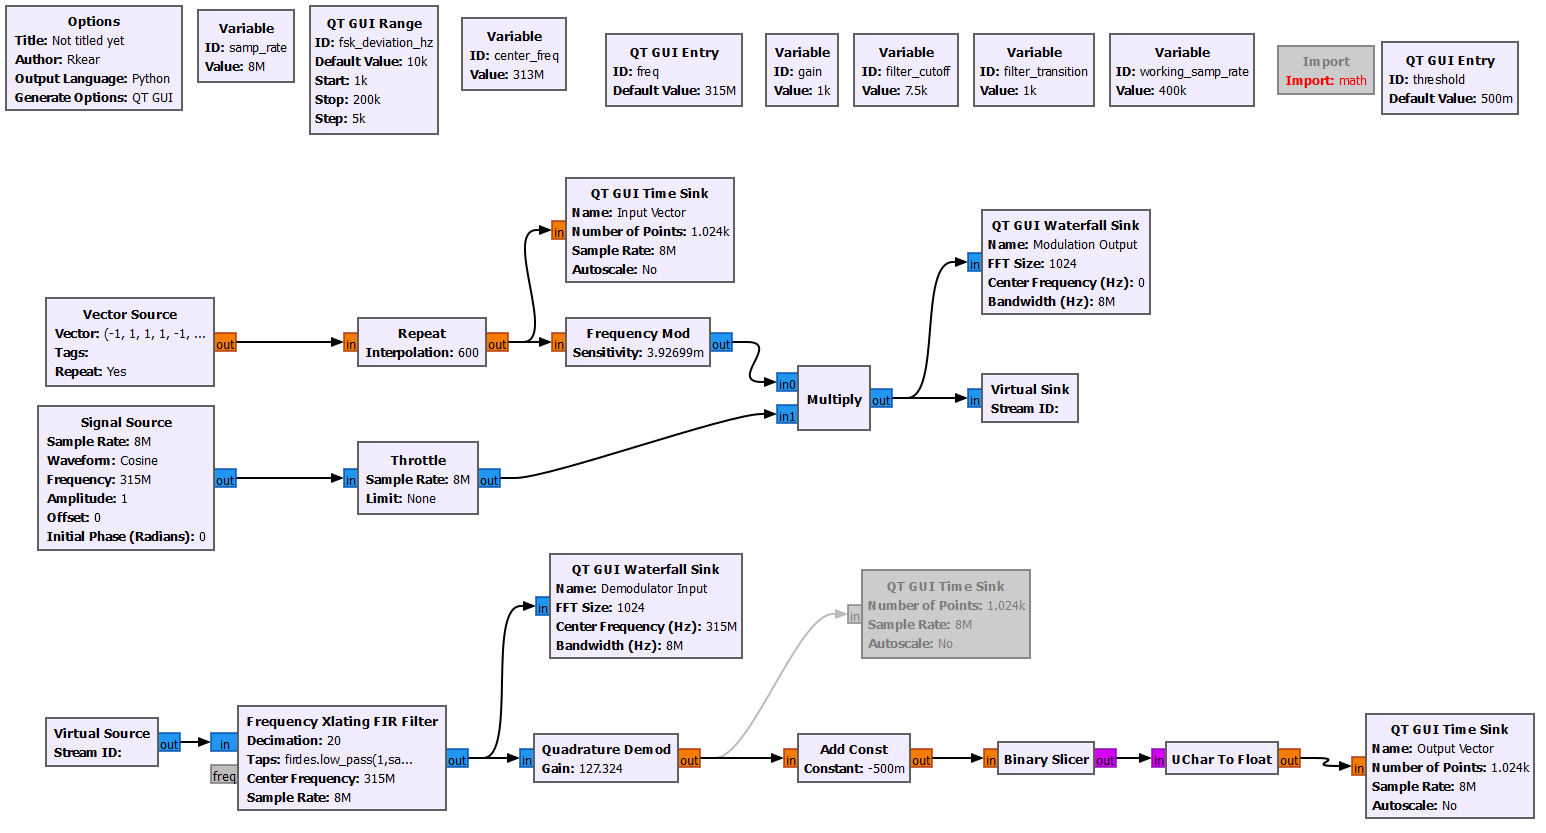
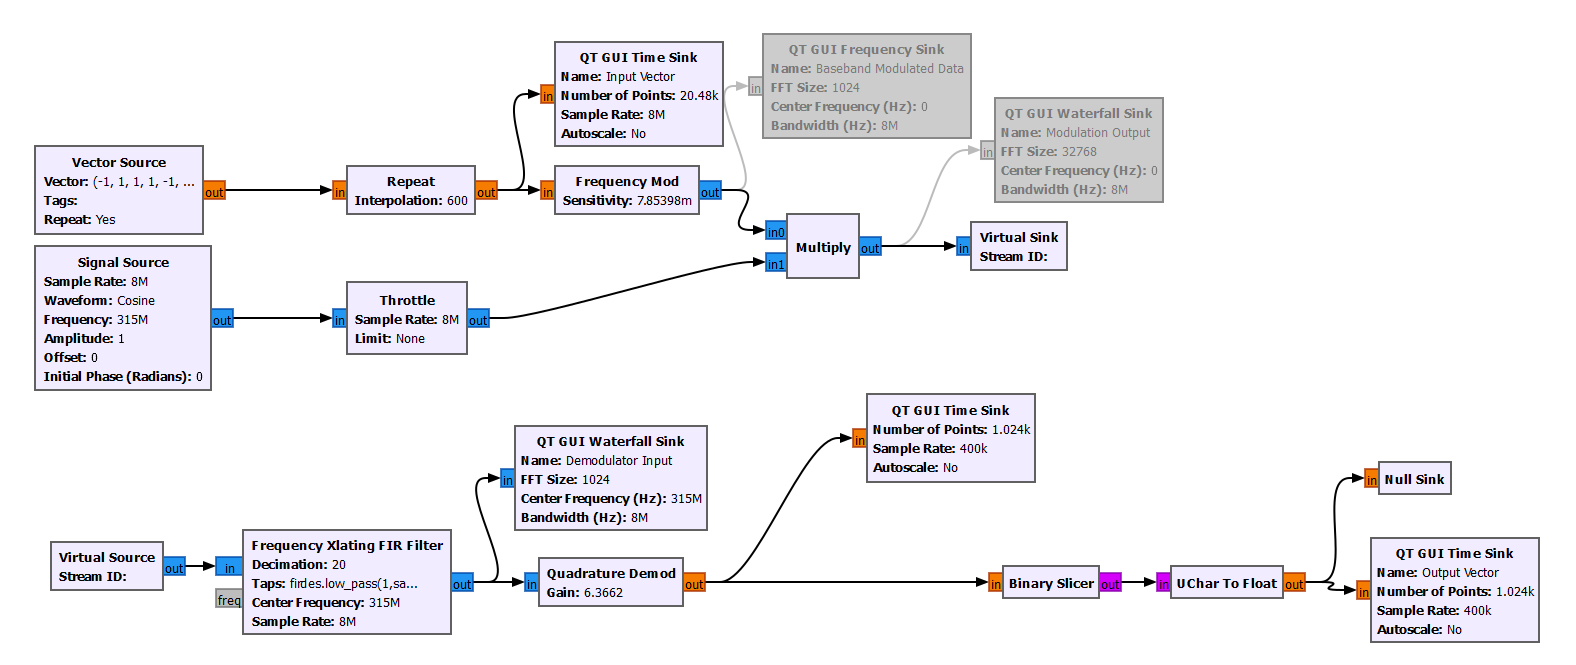
Demod

diff --git a/Lab3_FSK.py b/Lab3_FSK.py
@@ -99,18 +99,18 @@ class Lab3_FSK(gr.top_block, Qt.QWidget):
         self._threshold_line_edit.returnPressed.connect(
             lambda: self.set_threshold(eng_notation.str_to_num(str(self._threshold_line_edit.text()))))
         self.top_layout.addWidget(self._threshold_tool_bar)
-        self.qtgui_waterfall_sink_x_0 = qtgui.waterfall_sink_c(
-            32768, #size
+        self.qtgui_waterfall_sink_x_0_0 = qtgui.waterfall_sink_c(
+            1024, #size
             window.WIN_BLACKMAN_hARRIS, #wintype
-            0, #fc
+            freq, #fc
             samp_rate, #bw
-            "Modulation Output", #name
+            "Demodulator Input", #name
             1, #number of inputs
             None # parent
         )
-        self.qtgui_waterfall_sink_x_0.set_update_time(0.10)
-        self.qtgui_waterfall_sink_x_0.enable_grid(False)
-        self.qtgui_waterfall_sink_x_0.enable_axis_labels(True)
+        self.qtgui_waterfall_sink_x_0_0.set_update_time(0.10)
+        self.qtgui_waterfall_sink_x_0_0.enable_grid(False)
+        self.qtgui_waterfall_sink_x_0_0.enable_axis_labels(True)
 
 
 
@@ -123,36 +123,36 @@ class Lab3_FSK(gr.top_block, Qt.QWidget):
 
         for i in range(1):
             if len(labels[i]) == 0:
-                self.qtgui_waterfall_sink_x_0.set_line_label(i, "Data {0}".format(i))
+                self.qtgui_waterfall_sink_x_0_0.set_line_label(i, "Data {0}".format(i))
             else:
-                self.qtgui_waterfall_sink_x_0.set_line_label(i, labels[i])
-            self.qtgui_waterfall_sink_x_0.set_color_map(i, colors[i])
-            self.qtgui_waterfall_sink_x_0.set_line_alpha(i, alphas[i])
+                self.qtgui_waterfall_sink_x_0_0.set_line_label(i, labels[i])
+            self.qtgui_waterfall_sink_x_0_0.set_color_map(i, colors[i])
+            self.qtgui_waterfall_sink_x_0_0.set_line_alpha(i, alphas[i])
 
-        self.qtgui_waterfall_sink_x_0.set_intensity_range(-140, 10)
+        self.qtgui_waterfall_sink_x_0_0.set_intensity_range(-140, 10)
 
-        self._qtgui_waterfall_sink_x_0_win = sip.wrapinstance(self.qtgui_waterfall_sink_x_0.qwidget(), Qt.QWidget)
+        self._qtgui_waterfall_sink_x_0_0_win = sip.wrapinstance(self.qtgui_waterfall_sink_x_0_0.qwidget(), Qt.QWidget)
 
-        self.top_layout.addWidget(self._qtgui_waterfall_sink_x_0_win)
-        self.qtgui_time_sink_x_1 = qtgui.time_sink_f(
+        self.top_layout.addWidget(self._qtgui_waterfall_sink_x_0_0_win)
+        self.qtgui_time_sink_x_2 = qtgui.time_sink_f(
             1024, #size
-            samp_rate, #samp_rate
-            "Input Vector", #name
+            samp_rate/20, #samp_rate
+            "Quad Demod Output", #name
             1, #number of inputs
             None # parent
         )
-        self.qtgui_time_sink_x_1.set_update_time(0.10)
-        self.qtgui_time_sink_x_1.set_y_axis(-1, 1)
+        self.qtgui_time_sink_x_2.set_update_time(0.10)
+        self.qtgui_time_sink_x_2.set_y_axis(-7, 7)
 
-        self.qtgui_time_sink_x_1.set_y_label('Amplitude', "")
+        self.qtgui_time_sink_x_2.set_y_label('Amplitude', "")
 
-        self.qtgui_time_sink_x_1.enable_tags(True)
-        self.qtgui_time_sink_x_1.set_trigger_mode(qtgui.TRIG_MODE_FREE, qtgui.TRIG_SLOPE_POS, 0.0, 0, 0, "")
-        self.qtgui_time_sink_x_1.enable_autoscale(False)
-        self.qtgui_time_sink_x_1.enable_grid(False)
-        self.qtgui_time_sink_x_1.enable_axis_labels(True)
-        self.qtgui_time_sink_x_1.enable_control_panel(False)
-        self.qtgui_time_sink_x_1.enable_stem_plot(False)
+        self.qtgui_time_sink_x_2.enable_tags(True)
+        self.qtgui_time_sink_x_2.set_trigger_mode(qtgui.TRIG_MODE_FREE, qtgui.TRIG_SLOPE_POS, 0.0, 0, 0, "")
+        self.qtgui_time_sink_x_2.enable_autoscale(False)
+        self.qtgui_time_sink_x_2.enable_grid(False)
+        self.qtgui_time_sink_x_2.enable_axis_labels(True)
+        self.qtgui_time_sink_x_2.enable_control_panel(False)
+        self.qtgui_time_sink_x_2.enable_stem_plot(False)
 
 
         labels = ['Signal 1', 'Signal 2', 'Signal 3', 'Signal 4', 'Signal 5',
@@ -171,59 +171,65 @@ class Lab3_FSK(gr.top_block, Qt.QWidget):
 
         for i in range(1):
             if len(labels[i]) == 0:
-                self.qtgui_time_sink_x_1.set_line_label(i, "Data {0}".format(i))
+                self.qtgui_time_sink_x_2.set_line_label(i, "Data {0}".format(i))
             else:
-                self.qtgui_time_sink_x_1.set_line_label(i, labels[i])
-            self.qtgui_time_sink_x_1.set_line_width(i, widths[i])
-            self.qtgui_time_sink_x_1.set_line_color(i, colors[i])
-            self.qtgui_time_sink_x_1.set_line_style(i, styles[i])
-            self.qtgui_time_sink_x_1.set_line_marker(i, markers[i])
-            self.qtgui_time_sink_x_1.set_line_alpha(i, alphas[i])
+                self.qtgui_time_sink_x_2.set_line_label(i, labels[i])
+            self.qtgui_time_sink_x_2.set_line_width(i, widths[i])
+            self.qtgui_time_sink_x_2.set_line_color(i, colors[i])
+            self.qtgui_time_sink_x_2.set_line_style(i, styles[i])
+            self.qtgui_time_sink_x_2.set_line_marker(i, markers[i])
+            self.qtgui_time_sink_x_2.set_line_alpha(i, alphas[i])
 
-        self._qtgui_time_sink_x_1_win = sip.wrapinstance(self.qtgui_time_sink_x_1.qwidget(), Qt.QWidget)
-        self.top_layout.addWidget(self._qtgui_time_sink_x_1_win)
-        self.qtgui_freq_sink_x_0 = qtgui.freq_sink_c(
+        self._qtgui_time_sink_x_2_win = sip.wrapinstance(self.qtgui_time_sink_x_2.qwidget(), Qt.QWidget)
+        self.top_layout.addWidget(self._qtgui_time_sink_x_2_win)
+        self.qtgui_time_sink_x_0 = qtgui.time_sink_f(
             1024, #size
-            window.WIN_BLACKMAN_hARRIS, #wintype
-            0, #fc
-            samp_rate, #bw
-            "Baseband Modulated Data", #name
-            1,
+            samp_rate/20, #samp_rate
+            "Output Vector", #name
+            1, #number of inputs
             None # parent
         )
-        self.qtgui_freq_sink_x_0.set_update_time(0.10)
-        self.qtgui_freq_sink_x_0.set_y_axis((-140), 10)
-        self.qtgui_freq_sink_x_0.set_y_label('Relative Gain', 'dB')
-        self.qtgui_freq_sink_x_0.set_trigger_mode(qtgui.TRIG_MODE_FREE, 0.0, 0, "")
-        self.qtgui_freq_sink_x_0.enable_autoscale(False)
-        self.qtgui_freq_sink_x_0.enable_grid(False)
-        self.qtgui_freq_sink_x_0.set_fft_average(1.0)
-        self.qtgui_freq_sink_x_0.enable_axis_labels(True)
-        self.qtgui_freq_sink_x_0.enable_control_panel(False)
-        self.qtgui_freq_sink_x_0.set_fft_window_normalized(False)
+        self.qtgui_time_sink_x_0.set_update_time(0.10)
+        self.qtgui_time_sink_x_0.set_y_axis(-1, 1)
+
+        self.qtgui_time_sink_x_0.set_y_label('Amplitude', "")
+
+        self.qtgui_time_sink_x_0.enable_tags(True)
+        self.qtgui_time_sink_x_0.set_trigger_mode(qtgui.TRIG_MODE_FREE, qtgui.TRIG_SLOPE_POS, 0.0, 0, 0, "")
+        self.qtgui_time_sink_x_0.enable_autoscale(False)
+        self.qtgui_time_sink_x_0.enable_grid(False)
+        self.qtgui_time_sink_x_0.enable_axis_labels(True)
+        self.qtgui_time_sink_x_0.enable_control_panel(False)
+        self.qtgui_time_sink_x_0.enable_stem_plot(False)
 
 
-
-        labels = ['', '', '', '', '',
-            '', '', '', '', '']
+        labels = ['Signal 1', 'Signal 2', 'Signal 3', 'Signal 4', 'Signal 5',
+            'Signal 6', 'Signal 7', 'Signal 8', 'Signal 9', 'Signal 10']
         widths = [1, 1, 1, 1, 1,
             1, 1, 1, 1, 1]
-        colors = ["blue", "red", "green", "black", "cyan",
-            "magenta", "yellow", "dark red", "dark green", "dark blue"]
+        colors = ['blue', 'red', 'green', 'black', 'cyan',
+            'magenta', 'yellow', 'dark red', 'dark green', 'dark blue']
         alphas = [1.0, 1.0, 1.0, 1.0, 1.0,
             1.0, 1.0, 1.0, 1.0, 1.0]
+        styles = [1, 1, 1, 1, 1,
+            1, 1, 1, 1, 1]
+        markers = [-1, -1, -1, -1, -1,
+            -1, -1, -1, -1, -1]
+
 
         for i in range(1):
             if len(labels[i]) == 0:
-                self.qtgui_freq_sink_x_0.set_line_label(i, "Data {0}".format(i))
+                self.qtgui_time_sink_x_0.set_line_label(i, "Data {0}".format(i))
             else:
-                self.qtgui_freq_sink_x_0.set_line_label(i, labels[i])
-            self.qtgui_freq_sink_x_0.set_line_width(i, widths[i])
-            self.qtgui_freq_sink_x_0.set_line_color(i, colors[i])
-            self.qtgui_freq_sink_x_0.set_line_alpha(i, alphas[i])
+                self.qtgui_time_sink_x_0.set_line_label(i, labels[i])
+            self.qtgui_time_sink_x_0.set_line_width(i, widths[i])
+            self.qtgui_time_sink_x_0.set_line_color(i, colors[i])
+            self.qtgui_time_sink_x_0.set_line_style(i, styles[i])
+            self.qtgui_time_sink_x_0.set_line_marker(i, markers[i])
+            self.qtgui_time_sink_x_0.set_line_alpha(i, alphas[i])
 
-        self._qtgui_freq_sink_x_0_win = sip.wrapinstance(self.qtgui_freq_sink_x_0.qwidget(), Qt.QWidget)
-        self.top_layout.addWidget(self._qtgui_freq_sink_x_0_win)
+        self._qtgui_time_sink_x_0_win = sip.wrapinstance(self.qtgui_time_sink_x_0.qwidget(), Qt.QWidget)
+        self.top_layout.addWidget(self._qtgui_time_sink_x_0_win)
         self.freq_xlating_fir_filter_xxx_0 = filter.freq_xlating_fir_filter_ccc(20, firdes.low_pass(1,samp_rate,filter_cutoff,filter_transition), freq, samp_rate)
         self.digital_binary_slicer_fb_0 = digital.binary_slicer_fb()
         self.blocks_vector_source_x_0 = blocks.vector_source_f((-1, 1, 1, 1, -1, 1, -1, -1, 1, 1, -1, -1, -1, 1, 1,-1,1,1,-1,-1,-1,1,-1,-1,1,1,1), True, 1, [])
@@ -232,9 +238,8 @@ class Lab3_FSK(gr.top_block, Qt.QWidget):
         self.blocks_repeat_0 = blocks.repeat(gr.sizeof_float*1, 600)
         self.blocks_null_sink_0 = blocks.null_sink(gr.sizeof_float*1)
         self.blocks_multiply_xx_0 = blocks.multiply_vcc(1)
-        self.blocks_add_const_vxx_0 = blocks.add_const_ff((-.5))
         self.analog_sig_source_x_0 = analog.sig_source_c(samp_rate, analog.GR_COS_WAVE, freq, 1, 0, 0)
-        self.analog_quadrature_demod_cf_0 = analog.quadrature_demod_cf((samp_rate/(2*math.pi*fsk_deviation_hz)))
+        self.analog_quadrature_demod_cf_0 = analog.quadrature_demod_cf((samp_rate/(2*math.pi*fsk_deviation_hz*20)))
         self.analog_frequency_modulator_fc_0 = analog.frequency_modulator_fc(((2*math.pi*fsk_deviation_hz)/samp_rate))
 
 
@@ -242,19 +247,18 @@ class Lab3_FSK(gr.top_block, Qt.QWidget):
         # Connections
         ##################################################
         self.connect((self.analog_frequency_modulator_fc_0, 0), (self.blocks_multiply_xx_0, 0))
-        self.connect((self.analog_frequency_modulator_fc_0, 0), (self.qtgui_freq_sink_x_0, 0))
-        self.connect((self.analog_quadrature_demod_cf_0, 0), (self.blocks_add_const_vxx_0, 0))
+        self.connect((self.analog_quadrature_demod_cf_0, 0), (self.digital_binary_slicer_fb_0, 0))
+        self.connect((self.analog_quadrature_demod_cf_0, 0), (self.qtgui_time_sink_x_2, 0))
         self.connect((self.analog_sig_source_x_0, 0), (self.blocks_throttle2_0, 0))
-        self.connect((self.blocks_add_const_vxx_0, 0), (self.digital_binary_slicer_fb_0, 0))
         self.connect((self.blocks_multiply_xx_0, 0), (self.freq_xlating_fir_filter_xxx_0, 0))
-        self.connect((self.blocks_multiply_xx_0, 0), (self.qtgui_waterfall_sink_x_0, 0))
         self.connect((self.blocks_repeat_0, 0), (self.analog_frequency_modulator_fc_0, 0))
-        self.connect((self.blocks_repeat_0, 0), (self.qtgui_time_sink_x_1, 0))
         self.connect((self.blocks_throttle2_0, 0), (self.blocks_multiply_xx_0, 1))
         self.connect((self.blocks_uchar_to_float_0, 0), (self.blocks_null_sink_0, 0))
+        self.connect((self.blocks_uchar_to_float_0, 0), (self.qtgui_time_sink_x_0, 0))
         self.connect((self.blocks_vector_source_x_0, 0), (self.blocks_repeat_0, 0))
         self.connect((self.digital_binary_slicer_fb_0, 0), (self.blocks_uchar_to_float_0, 0))
         self.connect((self.freq_xlating_fir_filter_xxx_0, 0), (self.analog_quadrature_demod_cf_0, 0))
+        self.connect((self.freq_xlating_fir_filter_xxx_0, 0), (self.qtgui_waterfall_sink_x_0_0, 0))
 
 
     def closeEvent(self, event):
@@ -284,13 +288,13 @@ class Lab3_FSK(gr.top_block, Qt.QWidget):
     def set_samp_rate(self, samp_rate):
         self.samp_rate = samp_rate
         self.analog_frequency_modulator_fc_0.set_sensitivity(((2*math.pi*self.fsk_deviation_hz)/self.samp_rate))
-        self.analog_quadrature_demod_cf_0.set_gain((self.samp_rate/(2*math.pi*self.fsk_deviation_hz)))
+        self.analog_quadrature_demod_cf_0.set_gain((self.samp_rate/(2*math.pi*self.fsk_deviation_hz*20)))
         self.analog_sig_source_x_0.set_sampling_freq(self.samp_rate)
         self.blocks_throttle2_0.set_sample_rate(self.samp_rate)
         self.freq_xlating_fir_filter_xxx_0.set_taps(firdes.low_pass(1,self.samp_rate,self.filter_cutoff,self.filter_transition))
-        self.qtgui_freq_sink_x_0.set_frequency_range(0, self.samp_rate)
-        self.qtgui_time_sink_x_1.set_samp_rate(self.samp_rate)
-        self.qtgui_waterfall_sink_x_0.set_frequency_range(0, self.samp_rate)
+        self.qtgui_time_sink_x_0.set_samp_rate(self.samp_rate/20)
+        self.qtgui_time_sink_x_2.set_samp_rate(self.samp_rate/20)
+        self.qtgui_waterfall_sink_x_0_0.set_frequency_range(self.freq, self.samp_rate)
 
     def get_gain(self):
         return self.gain
@@ -304,7 +308,7 @@ class Lab3_FSK(gr.top_block, Qt.QWidget):
     def set_fsk_deviation_hz(self, fsk_deviation_hz):
         self.fsk_deviation_hz = fsk_deviation_hz
         self.analog_frequency_modulator_fc_0.set_sensitivity(((2*math.pi*self.fsk_deviation_hz)/self.samp_rate))
-        self.analog_quadrature_demod_cf_0.set_gain((self.samp_rate/(2*math.pi*self.fsk_deviation_hz)))
+        self.analog_quadrature_demod_cf_0.set_gain((self.samp_rate/(2*math.pi*self.fsk_deviation_hz*20)))
 
     def get_freq(self):
         return self.freq
@@ -314,6 +318,7 @@ class Lab3_FSK(gr.top_block, Qt.QWidget):
         Qt.QMetaObject.invokeMethod(self._freq_line_edit, "setText", Qt.Q_ARG("QString", eng_notation.num_to_str(self.freq)))
         self.analog_sig_source_x_0.set_frequency(self.freq)
         self.freq_xlating_fir_filter_xxx_0.set_center_freq(self.freq)
+        self.qtgui_waterfall_sink_x_0_0.set_frequency_range(self.freq, self.samp_rate)
 
     def get_filter_transition(self):
         return self.filter_transition

diff --git a/README.md b/README.md
@@ -24,26 +24,26 @@ https://github.com/Ryankearns9/DigComm_Lab2
 ## Algorithm Description
 This section details the specific algorithm implimented in GNU Radio. It includes the overall flow diagram along with specific descriptions of each part.
 
-### Flow Diagram
+## Flow Diagram
 The below figure shows the overall flow diagram of the algorithm. It includes the layout for both the modulation, demodulation, and constants used for the simulation. The below sections will detail these in more detail.
 ![alt text](https://github.com/Ryankearns9/DigComm_Lab3/blob/main/img/Flow_diagram.PNG)
 
-### Modulation
+## Modulation
 The below section shows the modulation from vector source through to frequency mixing. The key sections of this simulation is the Vector Source, repeater, frequency modulator, and mixer. 
 
-![alt text](https://github.com/Ryankearns9/DigComm_Lab3/blob/main/img/Rx_Flow.PNG)
+![alt text](https://github.com/Ryankearns9/DigComm_Lab3/blob/main/img/Tx_Flow.PNG)
 
-#### Vector Source
+### Vector Source
 ![alt text](https://github.com/Ryankearns9/DigComm_Lab3/blob/main/img/VectorSource.PNG)
 
 The vector source is the symbol list used for the FSK signal. This is a randomly generated list of symbols alternating between -1 and +1 where -1 represents a binary 0 and +1 represents a binary 1. This list is repeated to allow for the simulation of an arbritrarily long data vector.
 
-#### Repeat Block
+### Repeat Block
 ![alt text](https://github.com/Ryankearns9/DigComm_Lab3/blob/main/img/Repeat.PNG)
 
 The repeat block will replicate an input N times. This creates an oversampling ratio of N such that there are N samples per symbol. In this case, the oversampling ratio was chosen to be 600. This ratio was chosen to allow for a clean looking time-domain plot and also allows for easier representation without overmodulation.
 
-#### Frequency Modulation
+### Frequency Modulation
 ![alt text](https://github.com/Ryankearns9/DigComm_Lab3/blob/main/img/FrequencyMod.PNG)
 
 The frequency modulation translates changes in input amplitude to changes in frequency. The equation which describes this translation is shown below $e^{j2\pi*f_\delta/f_s * {\sum{x[n]}}}$ where $f_\delta$ is the frequency deviation, $f_s$ is the sample rate and x[n] is the amplitude of the Nth sample as per the documentation (https://wiki.gnuradio.org/index.php/Frequency_Mod).
@@ -52,17 +52,17 @@ This module accepts a single argument, the frequency sensitivity which is define
 
 The input of this module is a floating point value while the output is a complex value.
 
-#### Mixer
+### Mixer
 ![alt text](https://github.com/Ryankearns9/DigComm_Lab3/blob/main/img/Mixer.PNG)
 
 The mixer module consists of the modulated signal being multipled by a cosine value. The resulting output frequency is $f_{cosine}+f_{mod}$. This gives the cosine value the property of being the carrier frequency. As the previous section details the modulation frequecy output being +/- $f_\delta$, we know that the final frequency will be given as $f_{cosine}+X[N]*f_\delta$.
 
-##### Signal Generator
+#### Signal Generator
 ![alt text](https://github.com/Ryankearns9/DigComm_Lab3/blob/main/img/MixingSource.PNG)
 
 The cosine tone generated for the mixer is from the signal generator pictured above. It produces a cosine tone of a given frequency. In this case, it generates a 315MHz sampled at 8MHz. Given that the carrier frequency is higher than our sample rate, this results in the signal aliasing to 3MHz due to the nature of complex sampling.
 
-##### Throttle
+#### Throttle
 ![alt text](https://github.com/Ryankearns9/DigComm_Lab3/blob/main/img/Throttle.PNG)
 
 The throttle controls how fast a computer can copy memory from one location to another. Given that there is no hardware input controling timing, this module ensures the computer reduces its processing speed to the rate defined by the throttle. In this case, it is 8MHz.
@@ -80,4 +80,72 @@ The above figure shows the modulation with 200kHz deviation. As shown on the wat
 
 The above figure shows the modulation with 10kHz deviation. As shown on the waterfall and FFT, these tones are nearly impossible to distinguish due to their close proximity in frequency. The bit error rate from this modulation would likely be significantly higher than the previous example.
 
+## Demodulation
+![alt text](https://github.com/Ryankearns9/DigComm_Lab3/blob/main/img/Rx_Flow.PNG)
+
+The above figure shows the demodulation flow of this FSK module. It consists of a FIR filter, quadrature demodulator, constant add, binary slicer, and a UChar to float convertor.
+
+This module accepts the FSK output from the above section and converts it to a binary output where the -1/+1 symbols are translated to 0/1 binary data. 
+
+### Frequency Xlating FIR Filter
+![alt text](https://github.com/Ryankearns9/DigComm_Lab3/blob/main/img/FIR_Filter.PNG)
+
+This type of FIR filter is a mixer followed by a FIR filter then a downsampler. The mixer basebands a signal of interest prior to filtering. The FIR filter is then applied in the same way as described in Lab 1. Finally, the decimator works the same as described in Lab 1. The module accepts a cener frequency, FIR taps, and decimation amount.
+
+The mixer frequency is chosen based on the carrier center frequency. In this case, it is 315MHz which will be aliased to 3MHz.
+
+The FIR taps are generated by the function firdes.low_pass as decribed in its documentation here: https://www.gnuradio.org/doc/doxygen/classgr_1_1filter_1_1firdes.html. The filter accepts the following parameters:
+
+| Parameter        | Value         |
+| ---------------- |:-------------:|
+| Fitler Type      | Hamming       |
+| Gain             | 1.0           |
+| Sampling Rate    | 8MHz          |
+| Cutoff Freq      | 7.5kHz        |
+| Transition Width | 1kHz          |
+
+Of note, the passband edge for this filter is 7.5kHz which means any frequency deviation above this value will be significantly attenuated any may not be recoverable. This can be seen with the below two figures
+
+![alt text](https://github.com/Ryankearns9/DigComm_Lab3/blob/main/img/Waterfall_inband.PNG)
+
+The above figure shows expected output for a frequency deviation of 6kHz with high energy density within the 7.5kHz passband of the filter.
+
+![alt text](https://github.com/Ryankearns9/DigComm_Lab3/blob/main/img/Waterfall_outofband.PNG)
+
+The above figure shows the extremely attenuated output from frequency deviation of 156kHz. At this deviation, the tones are attenuated so far that they are nearly impossible to distinguish. The bit error rate would likely approach 50% as noise is the predominant cause of energy.
+
+Finally, the decimation rate for this module is 20x. Because the input sample rate is 8MHz complex, this results in a complex output of 400kHz.
+
+### Quadrature Demod
+![alt text](https://github.com/Ryankearns9/DigComm_Lab3/blob/main/img/QuadDemod.PNG)
+This block is responsible for translating changes in frequency into representations in complex numbers. It takes the conjugate of a time delayed sample X[n-1] and multiplies it by the current sample x[n]. This math can be seen below:
+
+$'(a[n]+ib[n])(a[n-1]-ib[n-1]'$
+$'a[n]a[n-1]-ia[n]b[n-1]+ib[n]a[n-1]+b[n]b[n-1]'$
+
+This gives the change between these two values. The output is then the angle of this complex number, ie the angular velocity between these two samples in radians. Then, the gain coefficent is multiplied to the resulting output to create a floating point value.
+
+Because the signal has been basebanded in the previous module, we know that a positive frequency corresponds to a 1 and a negative frequency corresponds to a 0. This information is critical for the next section.
+
+### Binary Slicer
+![alt text](https://github.com/Ryankearns9/DigComm_Lab3/blob/main/img/BinarySlicer.PNG)
+
+The binary slicer accepts floating point input and outputs a binary value based on whether the input was positive or negative. In the previous section, we used the quadrature demod to show negative frequencies as being negative floating point values and positive frequencies as being positive floating point values. This module converts those positive and negative values into 1's and 0's, thus completing the demod.
+
+### UChar to float
+![alt text](https://github.com/Ryankearns9/DigComm_Lab3/blob/main/img/Char_to_float.PNG)
+This module converts the binary input into a floating point value. The function only serves to allow for it to be used on the QT GUI functions for visual purposes. The demodulation is complete at binary slicer.
+
+### Demodulation GUI
+This sections shows what happens when the frequency deviation leaves the expected bandwidth. It uses a deviation of 3kHz and 100kHz to demonstrate how noise becomes the predominant part of the signal when out of band of the filter.
+
+#### Inband Signal
+![alt text](https://github.com/Ryankearns9/DigComm_Lab3/blob/main/img/inBand_Demod.PNG)
+
+The above figure shows a frequency deviation of 3kHz. The frequency translations can be seen clearly moving between negative and positive values to correspond with the bits which the symbols represent. These transitions are clear and easily disinguishable.
+
+#### Out of Band Signal
+![alt text](https://github.com/Ryankearns9/DigComm_Lab3/blob/main/img/outband_Demod.PNG)
+
+In the above figure, it is clear that noise is predominant. The floating point values are extremely small and oscillating between extremely small negative and positive values. Occasionally, these small values are interuppted by random spurious high energy transitions. These spurs are likely the sidelobes of the frequency transitions occuring at inter-symbol periods. This signal is too noisy to get any clear data from. 
 
